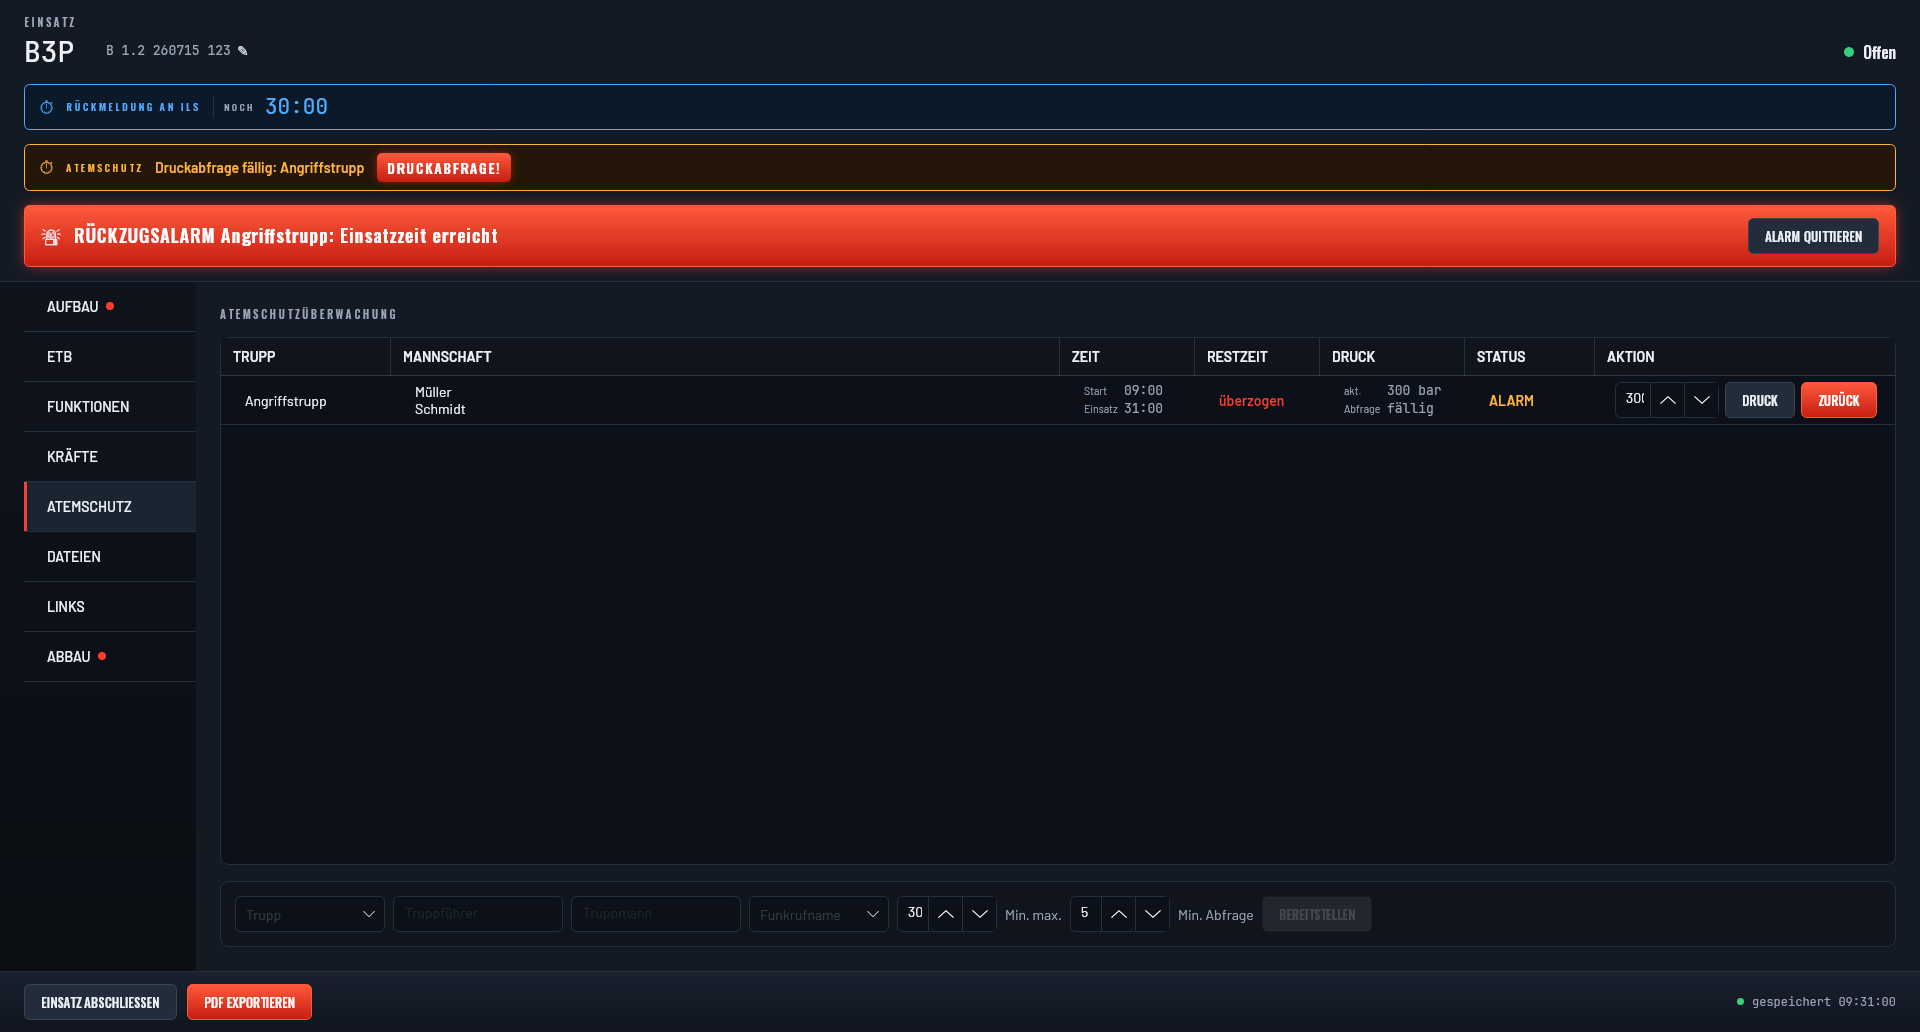
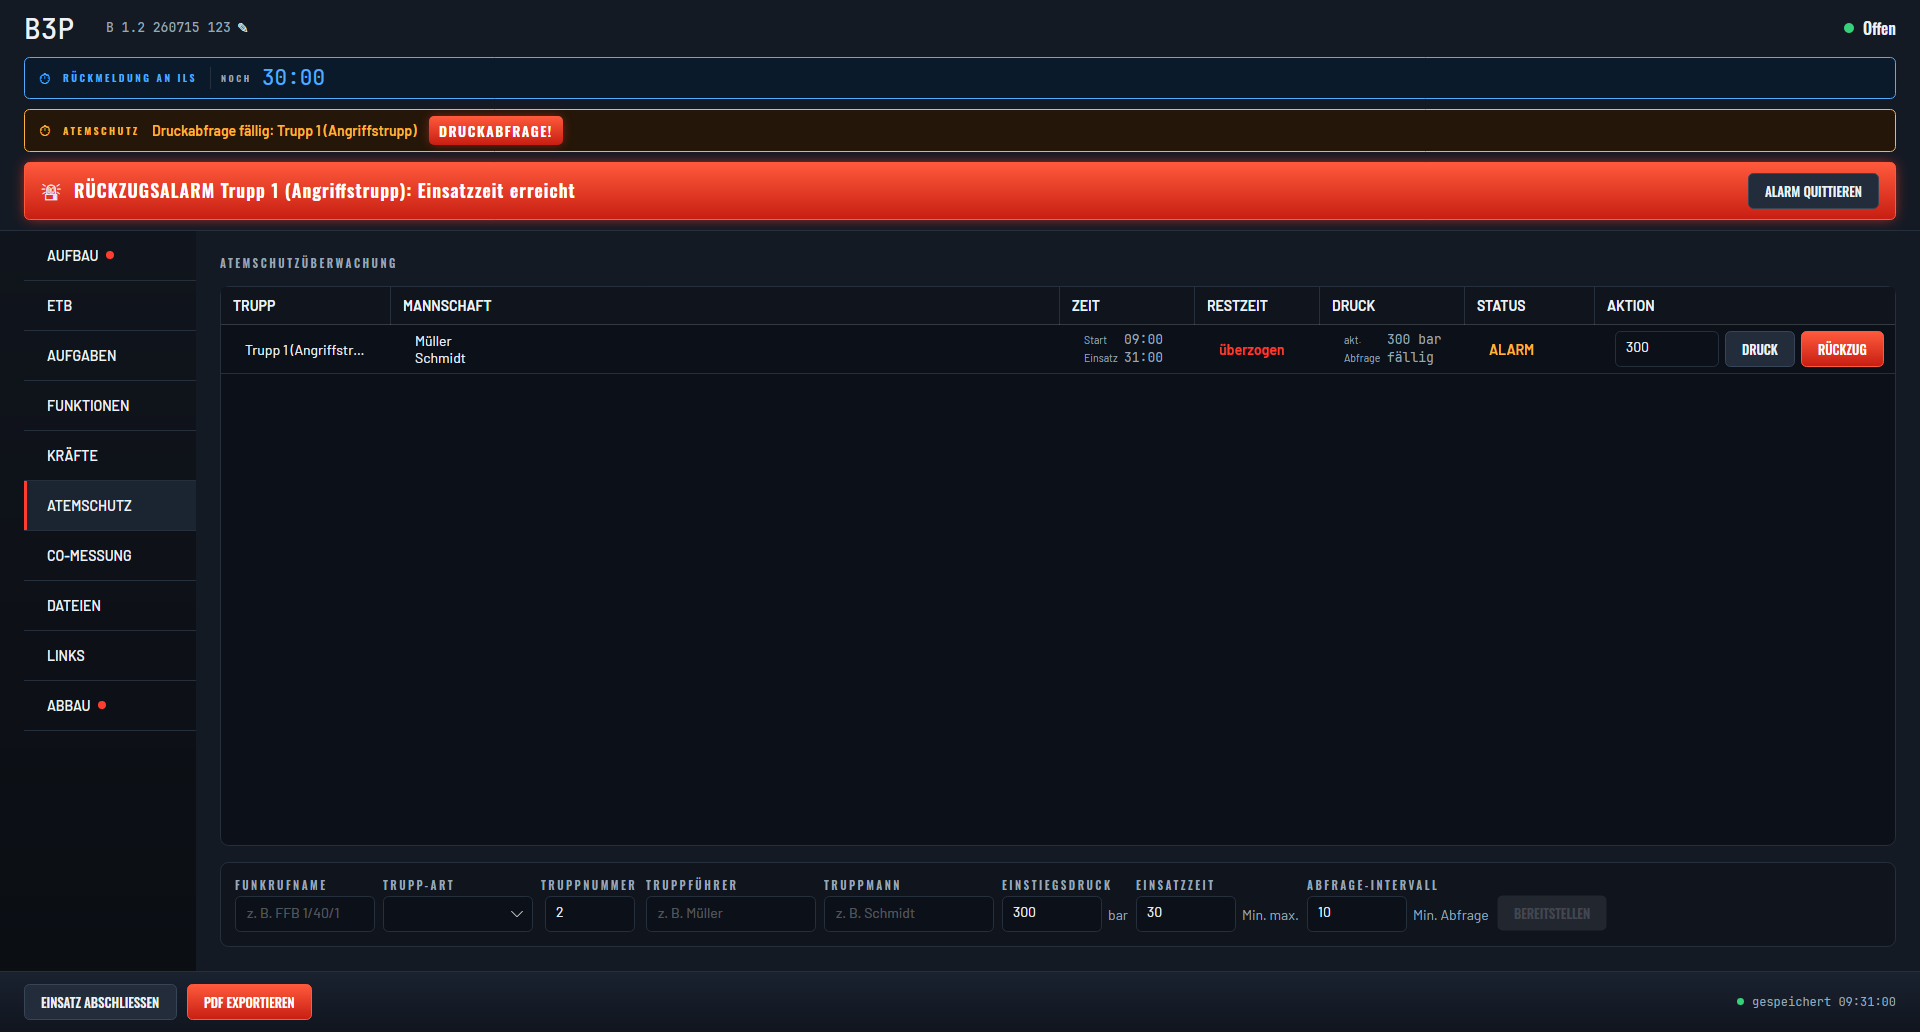
docs: refresh README feature list and screenshots (#176)
* docs: refresh README feature list and screenshots

The Features section was missing the Aufgaben and CO-Messprotokoll
tabs, the incident-wide ILS status reminder, and understated the
Kraefte workflow; the six screenshots predated ~12 UI-relevant
commits (new tabs, field labels, the 3-state SCBA lifecycle,
Stammdaten category cleanup, header chrome). Re-rendered via the
existing Acceptance test suite (no test changes) and reworded the
affected bullets to match current behavior.

* docs: add Aufgaben and CO-Messung screenshots

The Features section already documented these two tabs but the
gallery still only showed the original 6 views. Rendered via the
existing TasksTabRenderTests / CoMessprotokollRenderTests (no test
changes) and expanded the gallery to a 2x4 grid.

---------

diff --git a/README.md b/README.md
@@ -11,10 +11,10 @@ reports.
 Built with .NET 8 + Avalonia (desktop & Android), SQLite storage, SignalR sync
 and [QuestPDF](https://www.questpdf.com/) report generation.
 
-| | | |
-|---|---|---|
-| ![Home](docs/screenshots/home.png) | ![ETB](docs/screenshots/etb.png) | ![Checklisten](docs/screenshots/checkliste.png) |
-| ![Funktionen](docs/screenshots/funktionen.png) | ![Atemschutz](docs/screenshots/atemschutz.png) | ![Stammdaten](docs/screenshots/stammdaten-editor.png) |
+| | | | |
+|---|---|---|---|
+| ![Home](docs/screenshots/home.png) | ![ETB](docs/screenshots/etb.png) | ![Aufgaben](docs/screenshots/aufgaben.png) | ![Funktionen](docs/screenshots/funktionen.png) |
+| ![Atemschutz](docs/screenshots/atemschutz.png) | ![CO-Messung](docs/screenshots/co-messung.png) | ![Checklisten](docs/screenshots/checkliste.png) | ![Stammdaten](docs/screenshots/stammdaten-editor.png) |
 
 *All screenshots show fictional data.*
 
@@ -27,13 +27,22 @@ and [QuestPDF](https://www.questpdf.com/) report generation.
 - **ETB** (Einsatztagebuch) — manual entries with incoming/outgoing direction,
   automatic lifecycle logging (open, close, reopen), later editing that keeps a
   full history
-- **Kräfte** — units and crews with status and Bemerkung; Trupps are registered
-  as crews, not individuals
+- **Kräfte** — units added from a Stammdaten Fahrzeug (live-filtered by typed
+  Wache, already-assigned vehicles excluded), Stärke tracked as three numbers
+  and committed as one atomic write plus one ETB entry via an explicit
+  "Übernehmen" action, not per keystroke; Trupps are registered as crews, not
+  individuals
+- **Aufgaben** — task list with urgency/importance, assignee suggestions from
+  call signs, Funktionen and personnel, a spoken due-alarm, and one-click
+  creation straight from an ETB entry
 - **Funktionen** — command roles (EL, Abschnitt, von/bis) with transfer support
   and editable mobile numbers
 - **Atemschutzüberwachung** — SCBA teams with pressure-control interval,
   max-duration countdown, two-stage ILS Rückmeldung reminder with spoken cues
   and a Rückzugsalarm siren
+- **CO-Messprotokoll** — building/floor/apartment search grid with per-dwelling
+  status (not searched / searched / affected), CO ppm value, resident name and
+  key-availability marker, mirroring the real-world door-marking convention
 - **Checklisten** — Aufbau/Abbau checklists from your own master data, mandatory
   items highlighted, completion logged to the ETB
 - **Dateien** — attach photos and PDFs to an incident; they are merged into the
@@ -42,6 +51,11 @@ and [QuestPDF](https://www.questpdf.com/) report generation.
 
 **Beyond a single window:**
 
+- **ILS status reminder** — incident-wide (not per Trupp): fires after a
+  configurable "Erstmeldung nach" interval, then repeats on a configurable
+  "Intervall" with a spoken cue and an ERLEDIGT option; persists across
+  close/reopen/crash and is suppressed on joined/remote clients so the host
+  doesn't double-log
 - **PDF export** — one-click QuestPDF incident report
 - **Multi-device sync** — host an incident on the ELW laptop and follow along
   from other devices over LAN or Tailscale (SignalR); joining requires a share
